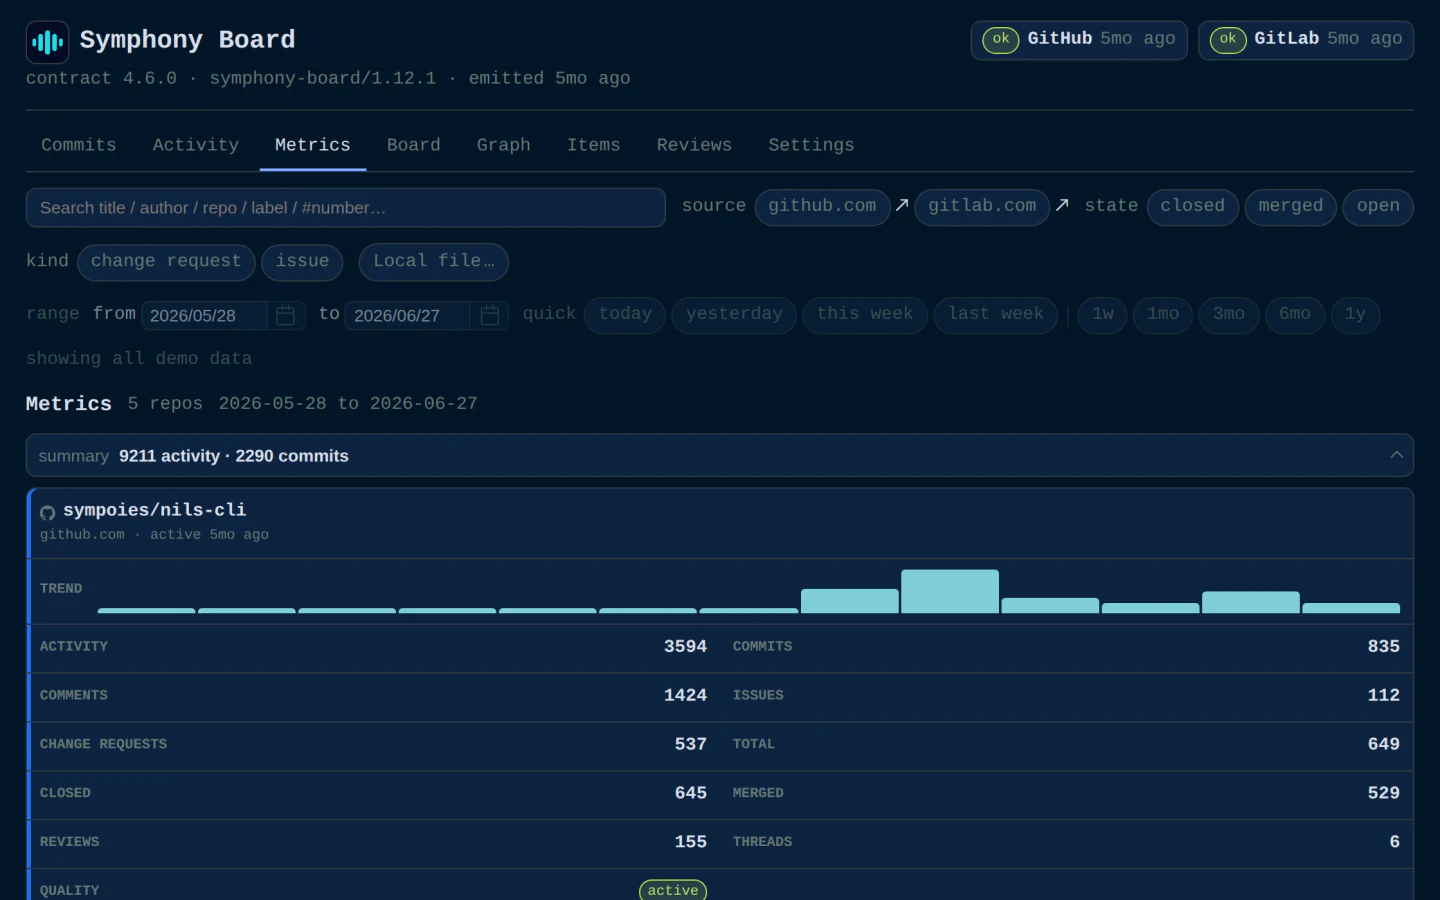
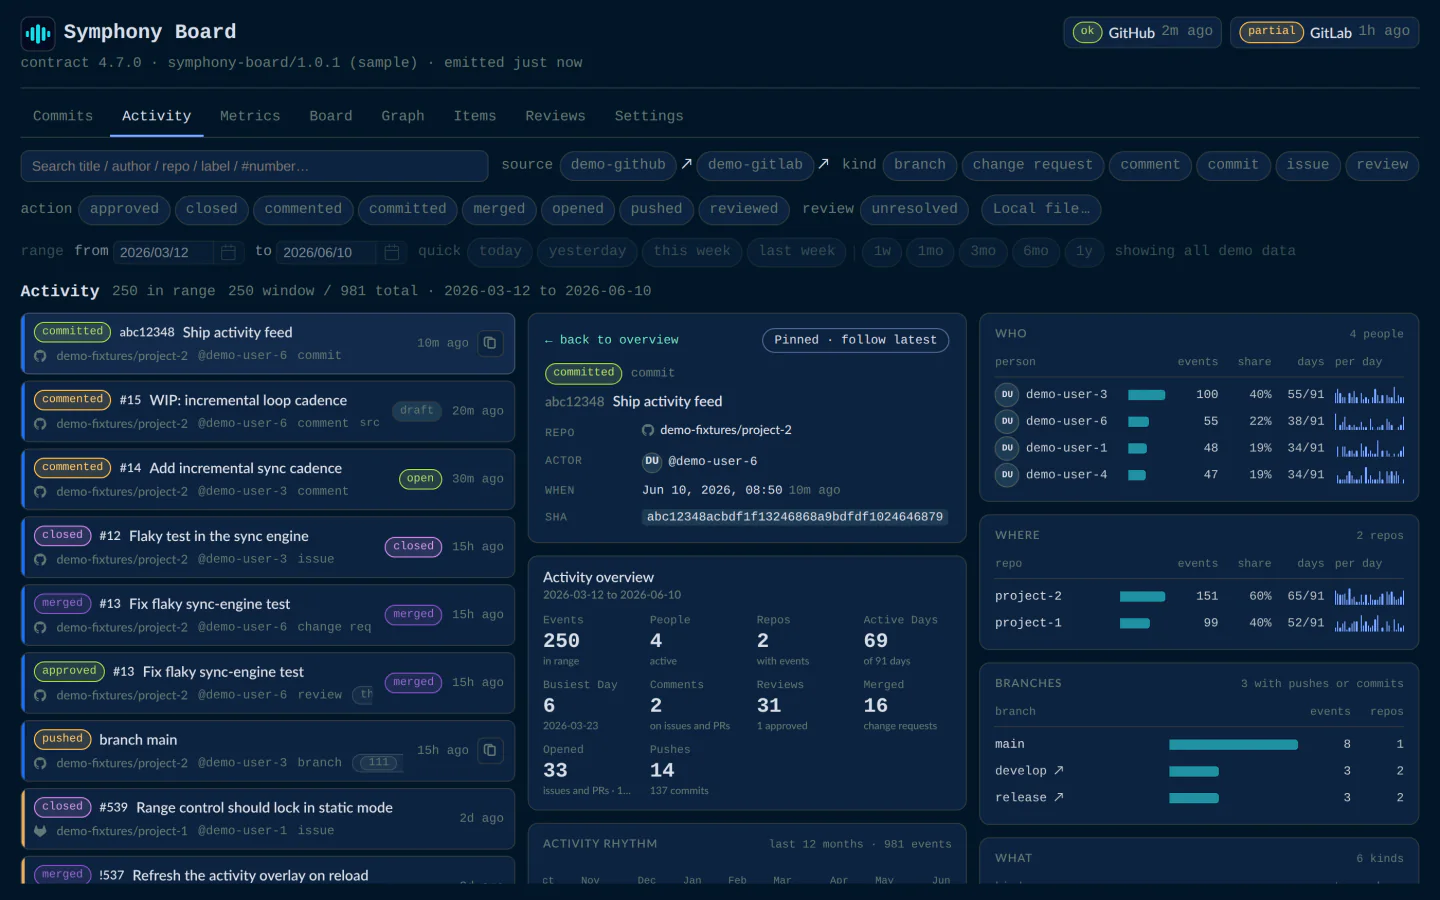
fix(work): show the desktop Symphony Board activity demo (#16)
- Replace the sparse Metrics captures with the public demo Activity views and describe the visible
  panels in both locales.
- Preserve responsive themed WebPs within the existing image budgets.

diff --git a/src/i18n/zh-Hant.ts b/src/i18n/zh-Hant.ts
@@ -129,7 +129,7 @@ export const zhHant: Dict = {
       symphonyBoard: {
         description:
           '適用於 GitHub 與 GitLab 的唯讀工作流程看板，將議題、拉取與合併請求、活動與關聯整合在同一個檢視中。',
-        alt: 'symphony-board 公開展示畫面：依儲存庫列出活動統計與趨勢。',
+        alt: 'Symphony Board 的活動頁面，顯示示範事件清單、所選事件的詳情，以及依使用者和儲存庫分類的活動摘要。',
       },
       agentCollab: {
         description:

diff --git a/src/i18n/en.ts b/src/i18n/en.ts
@@ -128,7 +128,7 @@ export const en = {
       symphonyBoard: {
         description:
           'A read-only workflow board for GitHub and GitLab. It gathers issues, pull and merge requests, activity and relationships into one view.',
-        alt: 'Screenshot from the symphony-board public demo showing activity totals and trends by repository.',
+        alt: 'Symphony Board Activity view with a demo event feed, selected event details, and activity summaries by user and repository.',
       },
       agentCollab: {
         description:
